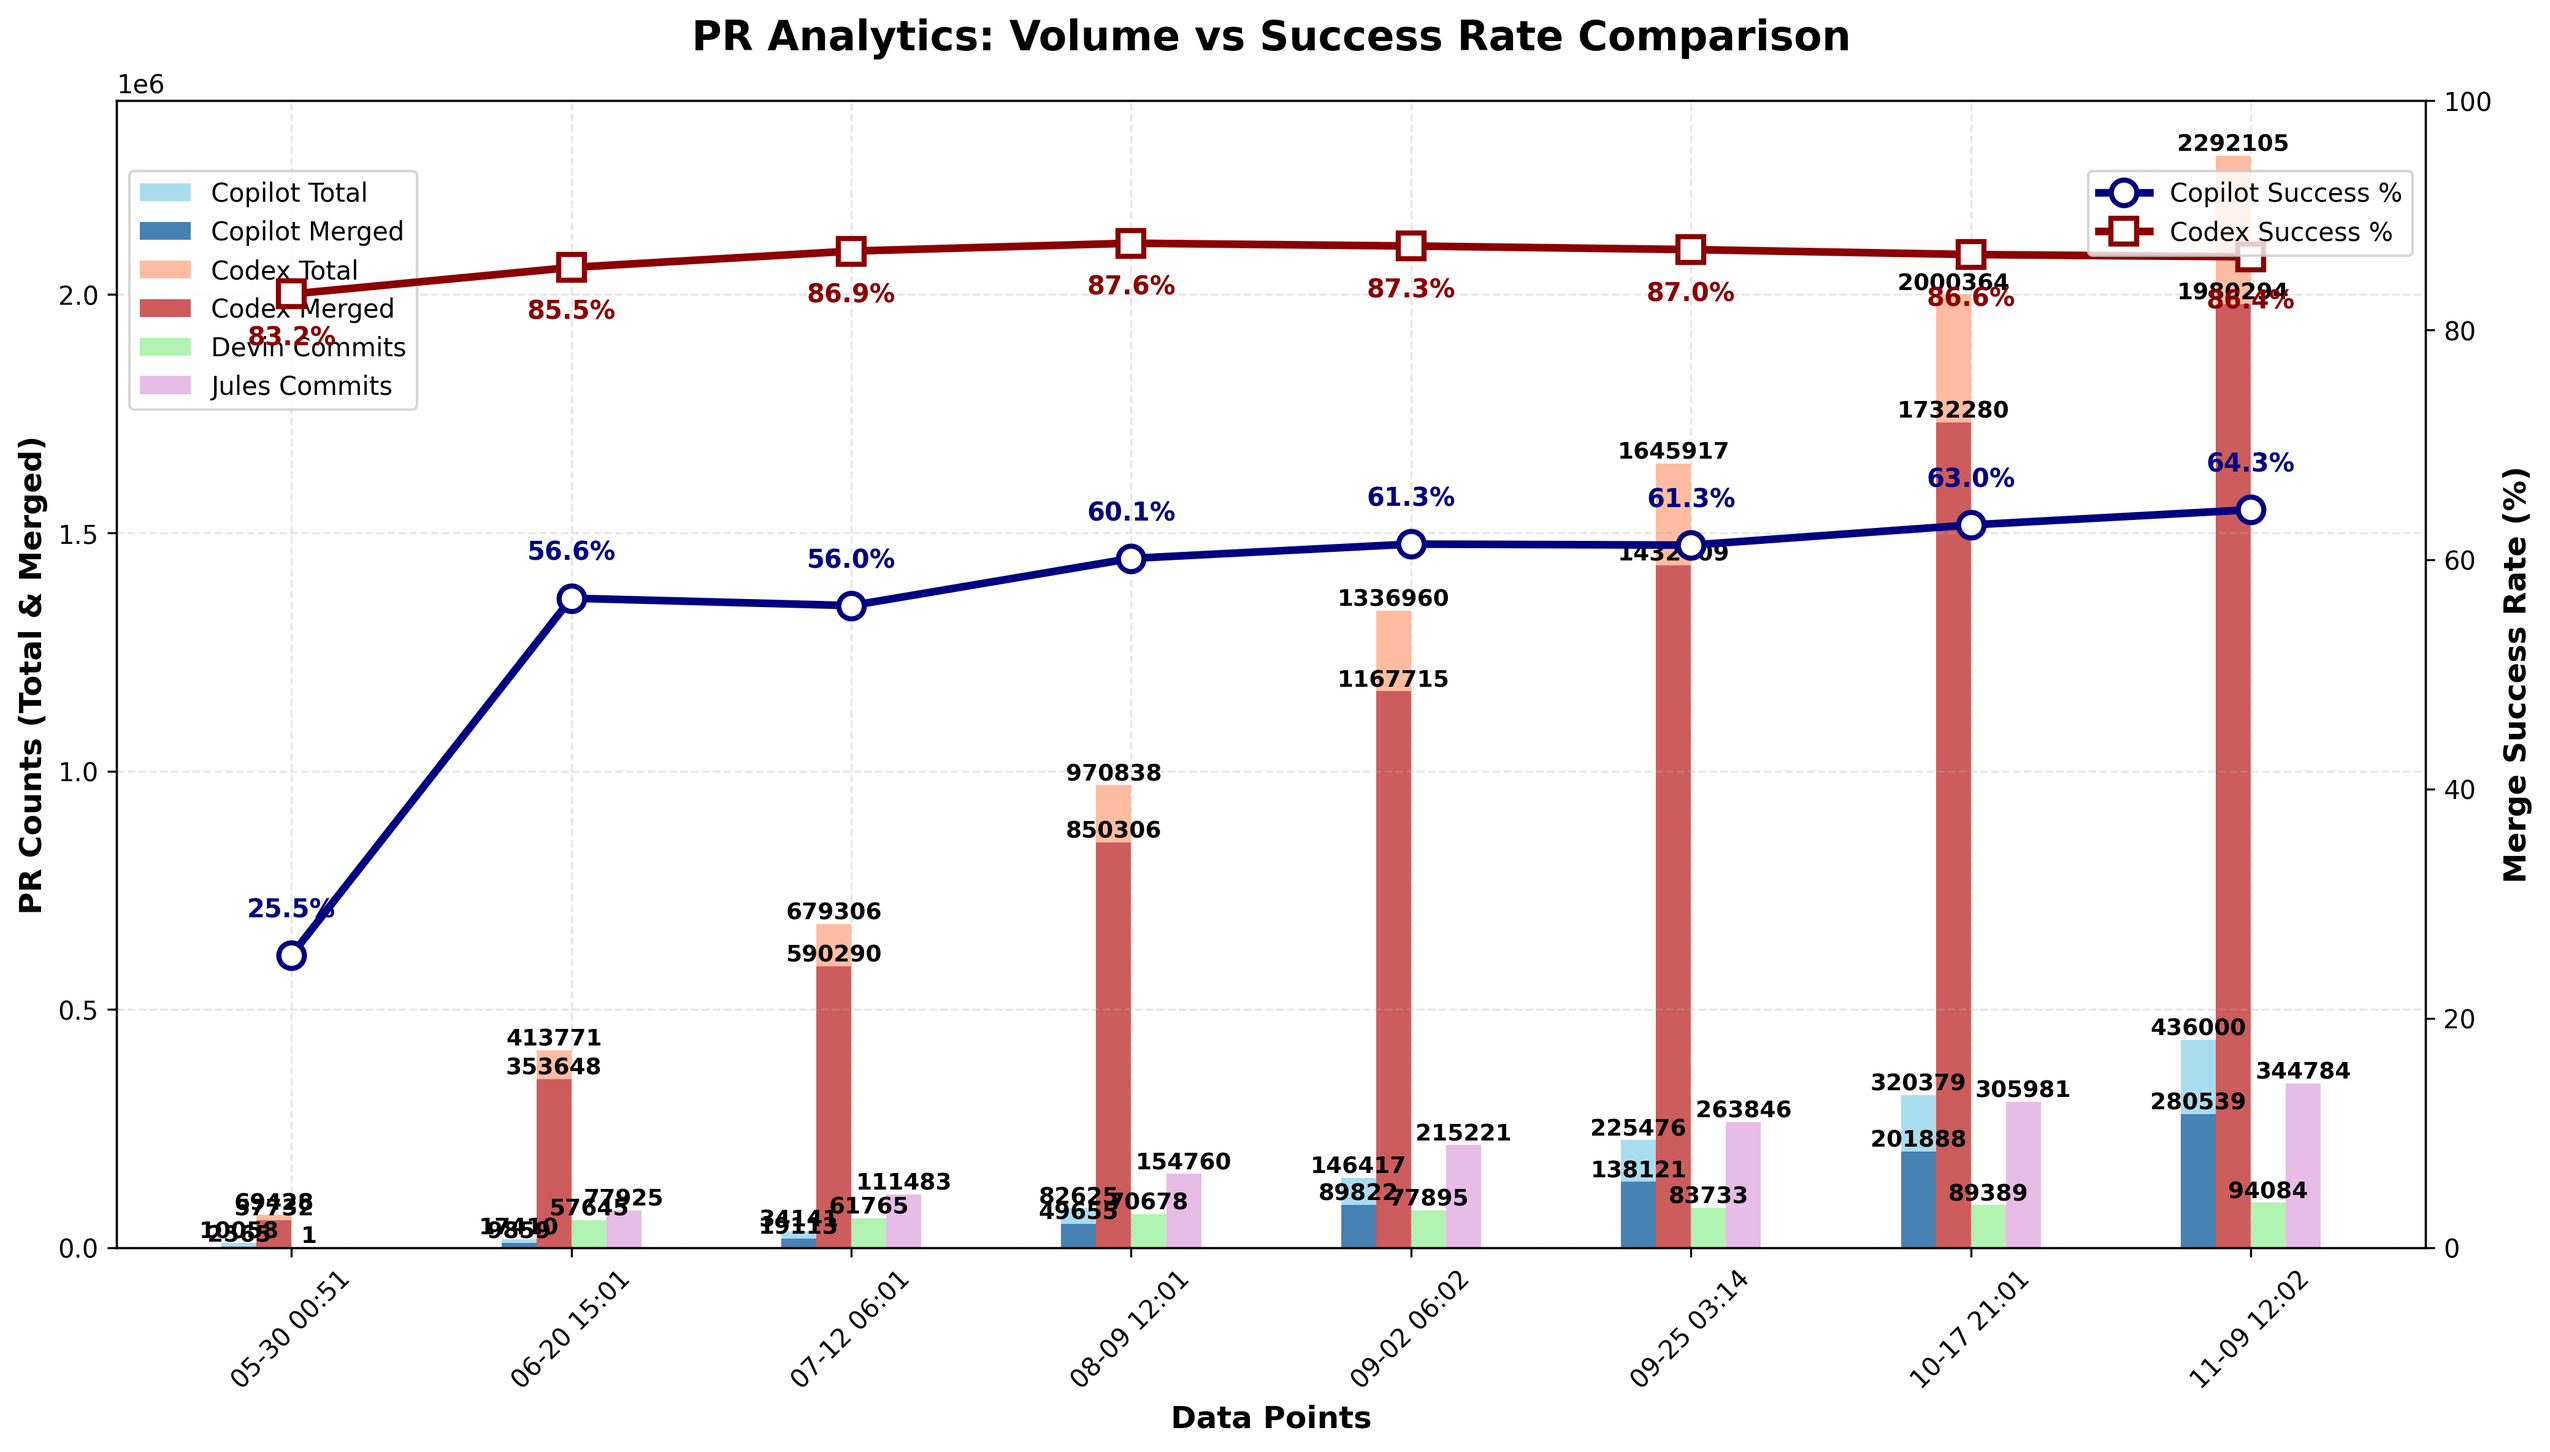
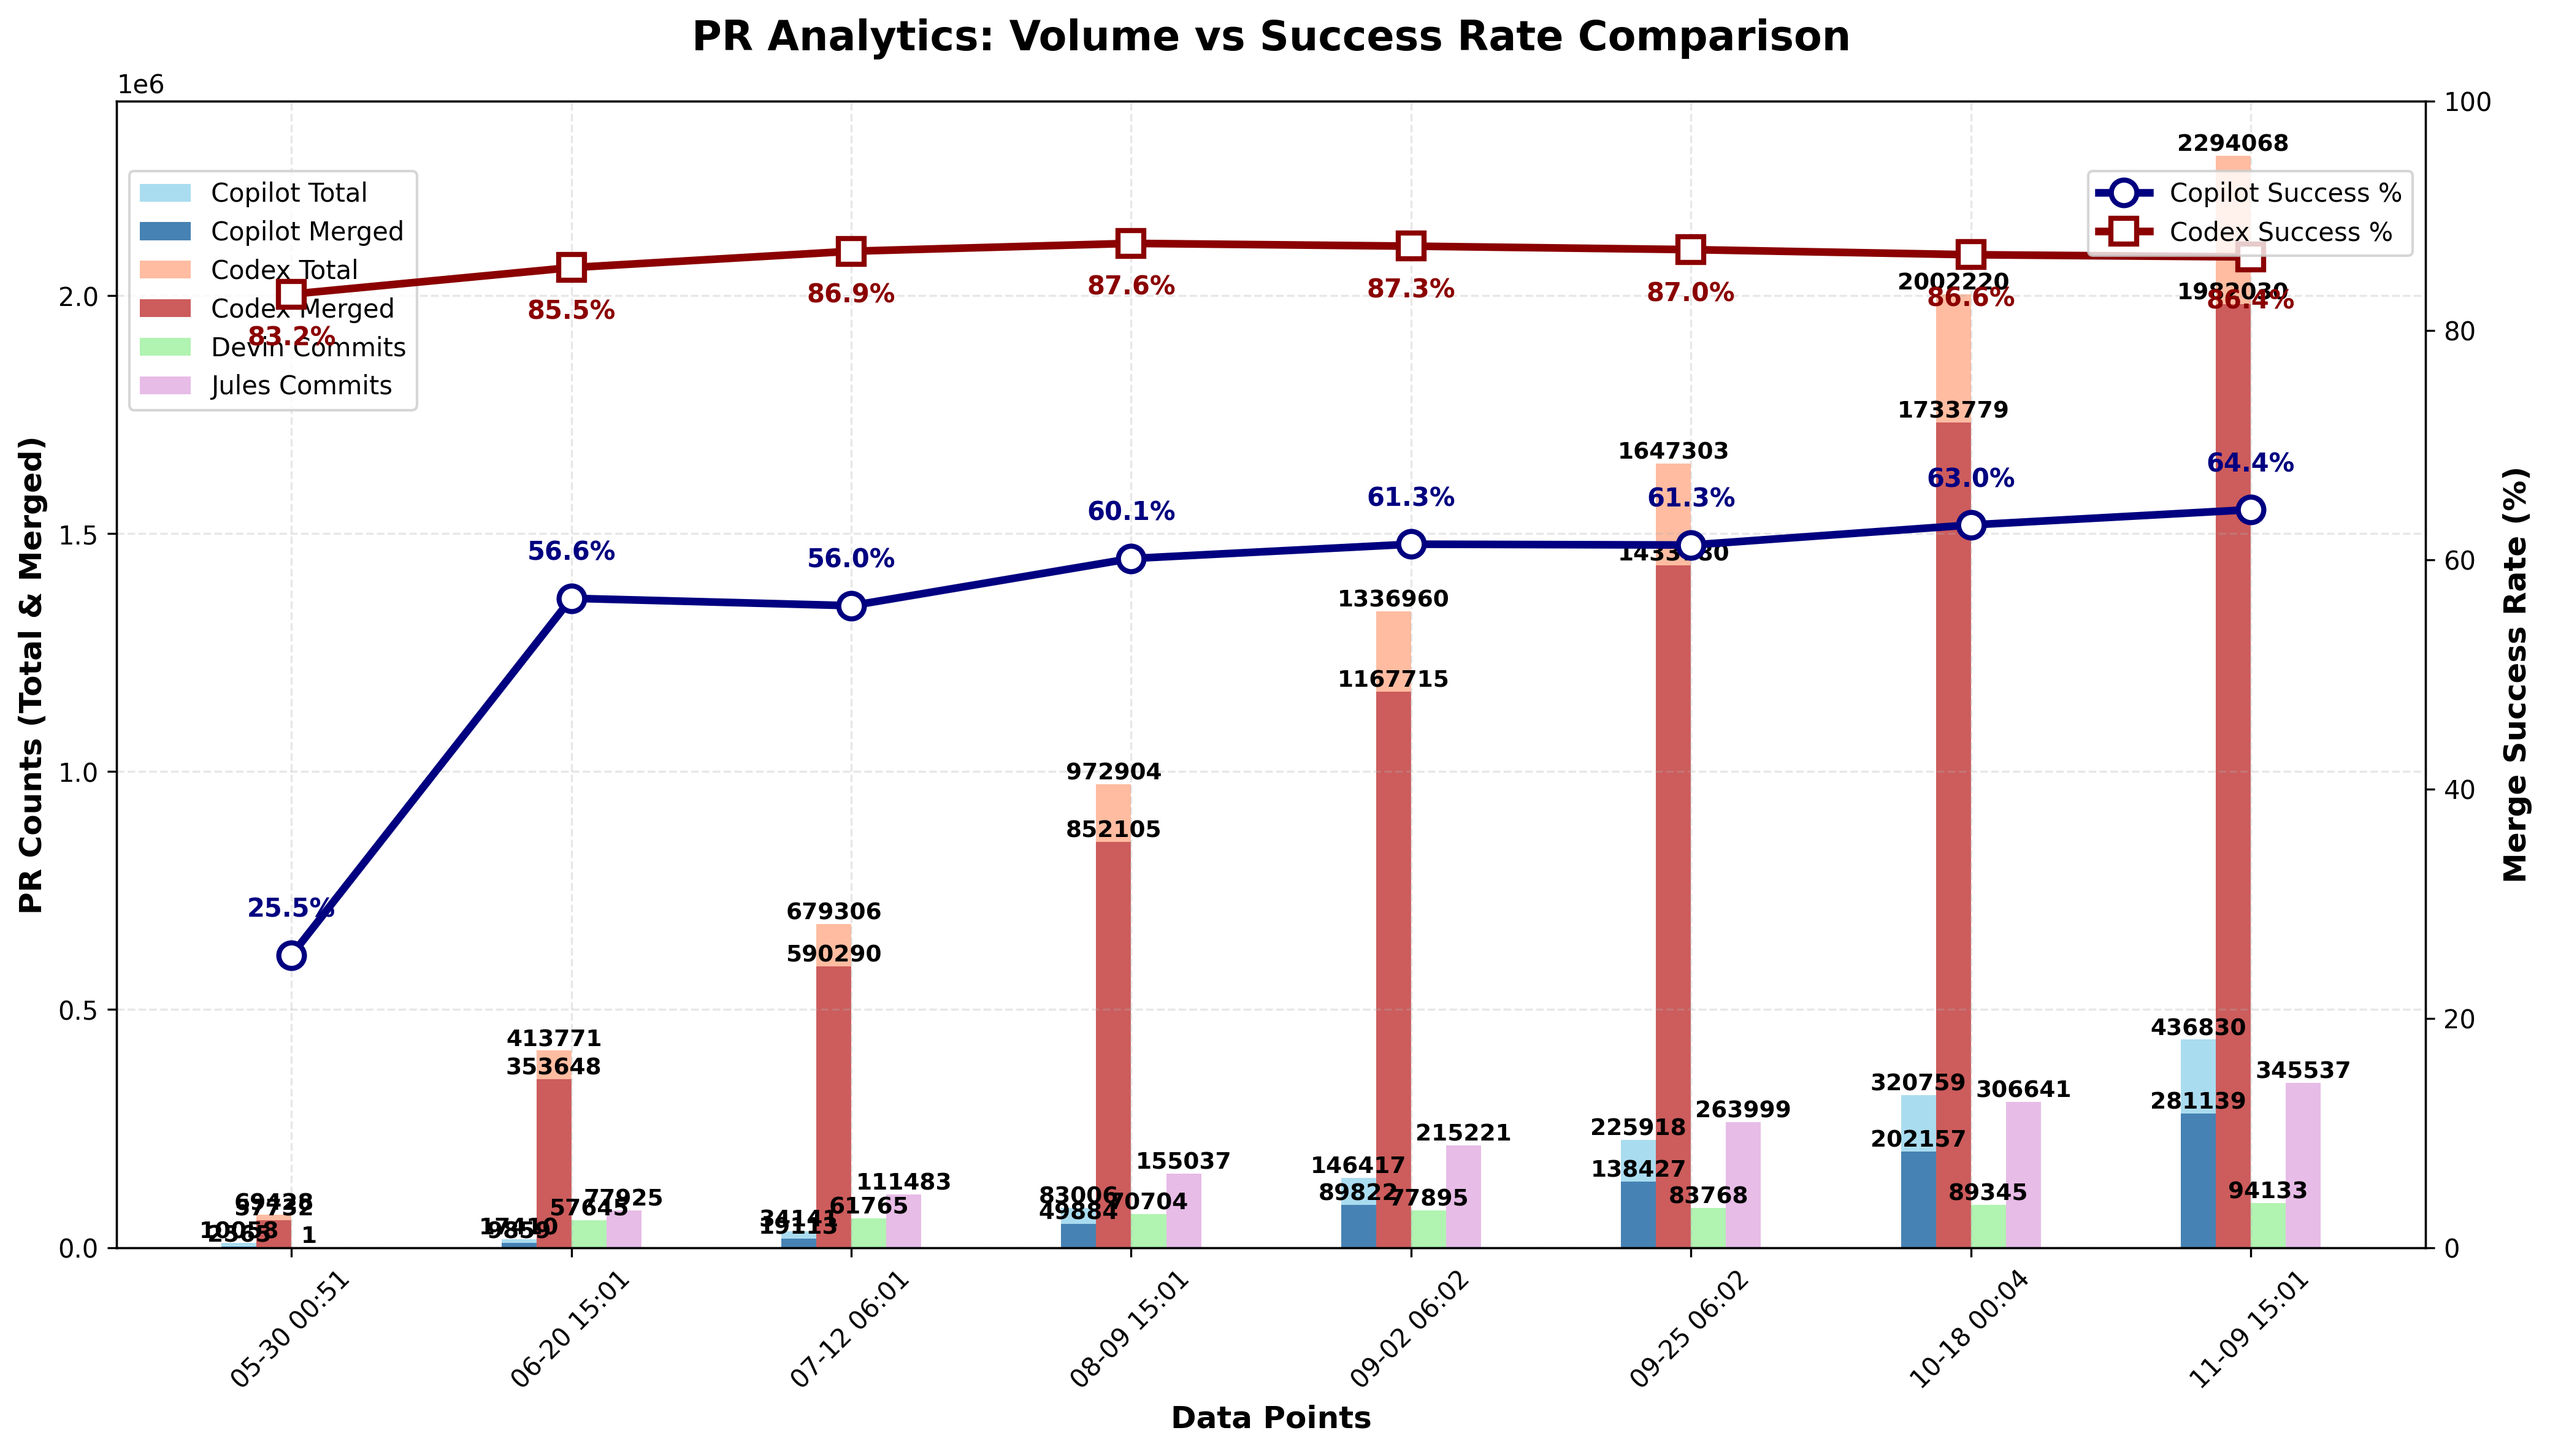
chore: update PR‑approval chart

diff --git a/docs/index.html b/docs/index.html
@@ -1256,6 +1256,7 @@
                         <td>N/A</td>
                         <td>N/A</td>
                         <td>N/A</td>
+                        <td>N/A</td>
                     </tr>
                     <tr>
                         <td>Codex</td>
@@ -2470,27 +2471,28 @@
                         <td>N/A</td>
                         <td>N/A</td>
                         <td>N/A</td>
+                        <td>N/A</td>
                     </tr>
                 <tr>
                         <td>Devin</td>
                         <td>N/A</td>
                         <td>N/A</td>
                         <td>N/A</td>
-                        <td>94,084</td>
+                        <td>94,133</td>
                     </tr>
                     <tr>
                         <td>Jules</td>
                         <td>N/A</td>
                         <td>N/A</td>
                         <td>N/A</td>
-                        <td>344,784</td>
+                        <td>345,537</td>
                     </tr>
                     </tbody>
             </table>
         </section>
 
         <footer>
-            <p>Last updated: <span id="last-updated">November 09, 2025 12:02 UTC</span></p>
+            <p>Last updated: <span id="last-updated">November 09, 2025 15:01 UTC</span></p>
             <p><a href="https://github.com/aavetis/ai-pr-watcher">View on GitHub</a></p>
         </footer>
     </div>

diff --git a/README.md b/README.md
@@ -19,7 +19,7 @@ Explore the GitHub search queries used:
 
 | Service | Total PRs | Merged PRs | Merge Rate | Total Commits |
 | ------- | --------- | ---------- | ---------- | ------------- |
-| Copilot | 436,000 | 280,539 | 64.34% | N/A           |
-| Codex   | 2,292,105 | 1,980,294 | 86.40% | N/A           |
-| Devin   | N/A       | N/A        | N/A        | 94,084 |
-| Jules   | N/A       | N/A        | N/A        | 344,784 |
+| Copilot | 436,830 | 281,139 | 64.36% | N/A           |
+| Codex   | 2,294,068 | 1,982,030 | 86.40% | N/A           |
+| Devin   | N/A       | N/A        | N/A        | 94,133 |
+| Jules   | N/A       | N/A        | N/A        | 345,537 |
